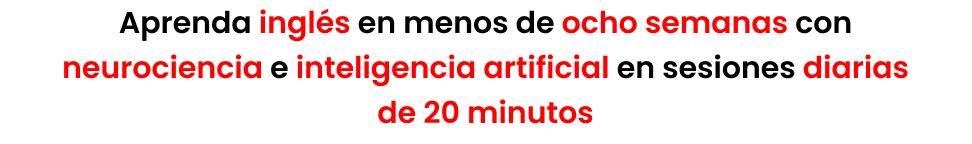
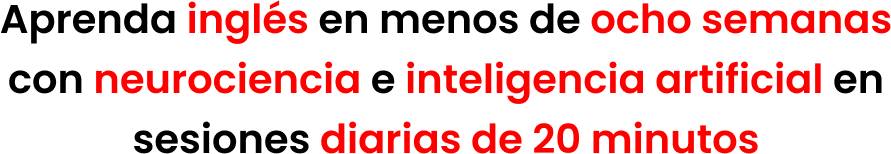
Add files via upload

diff --git a/01/VSL/assets/style.css b/01/VSL/assets/style.css
@@ -24,7 +24,7 @@ header.header h1 {
 img.ultrasecreto {
   clear: both;
   display: block;
-  width: 80%;
+  width: 60%;
   margin: 25px auto 10px auto;
 }
 section.conteudo h2 {
@@ -273,7 +273,7 @@ footer.footer p {
 		margin: 10px auto 15px auto;
 	}	
 	header.header h1, section.conteudo h4 {
-		font-size: 16px;
+		font-size: 14px;
 	}
 	section.conteudo h2 {
 		font-size: 21px;
